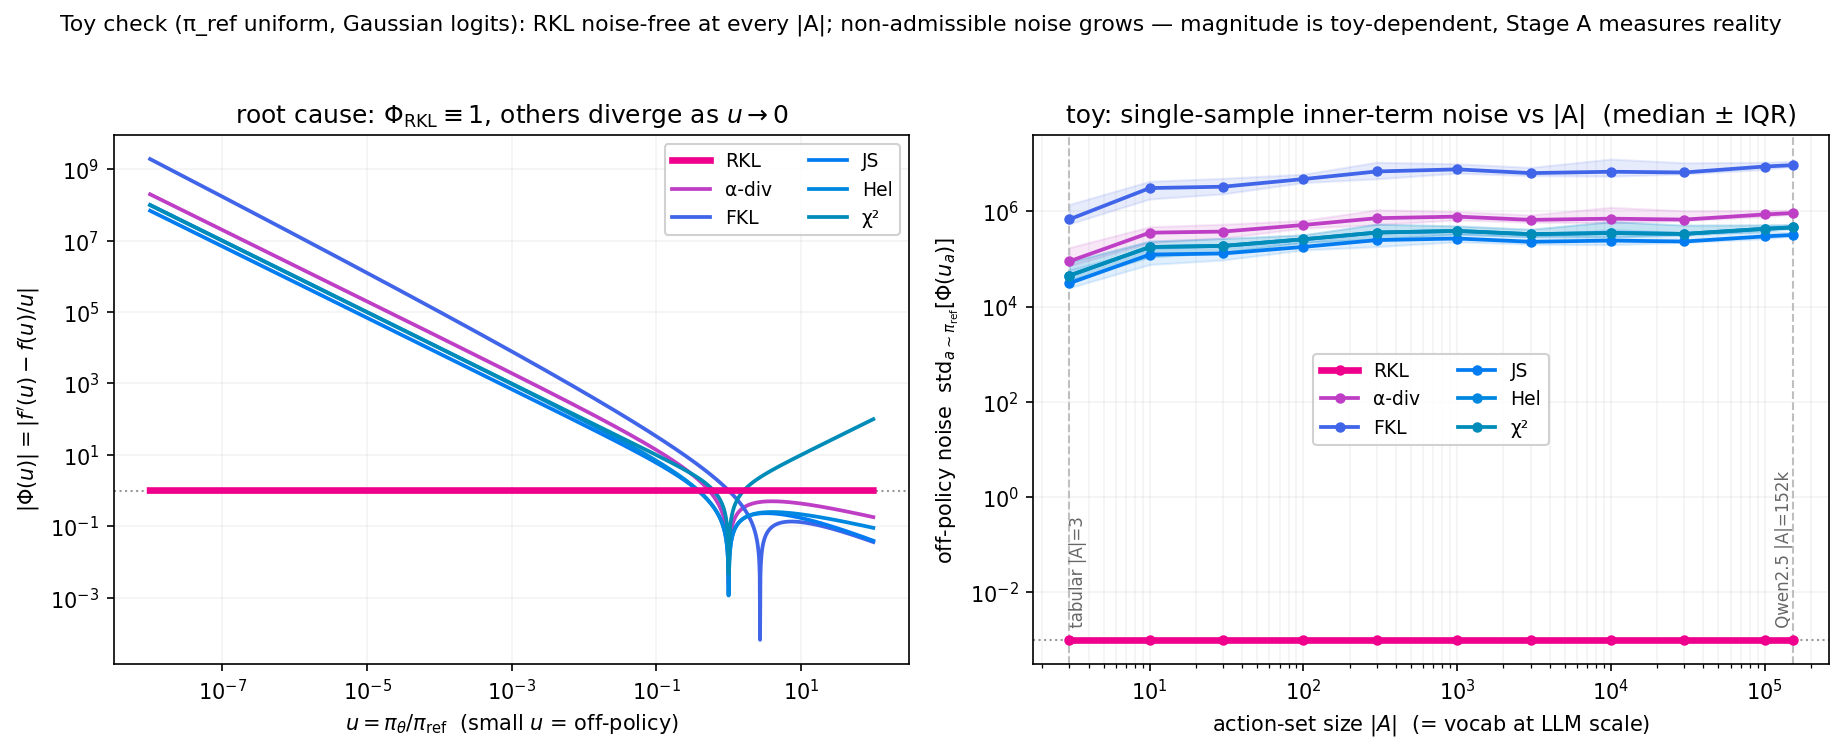
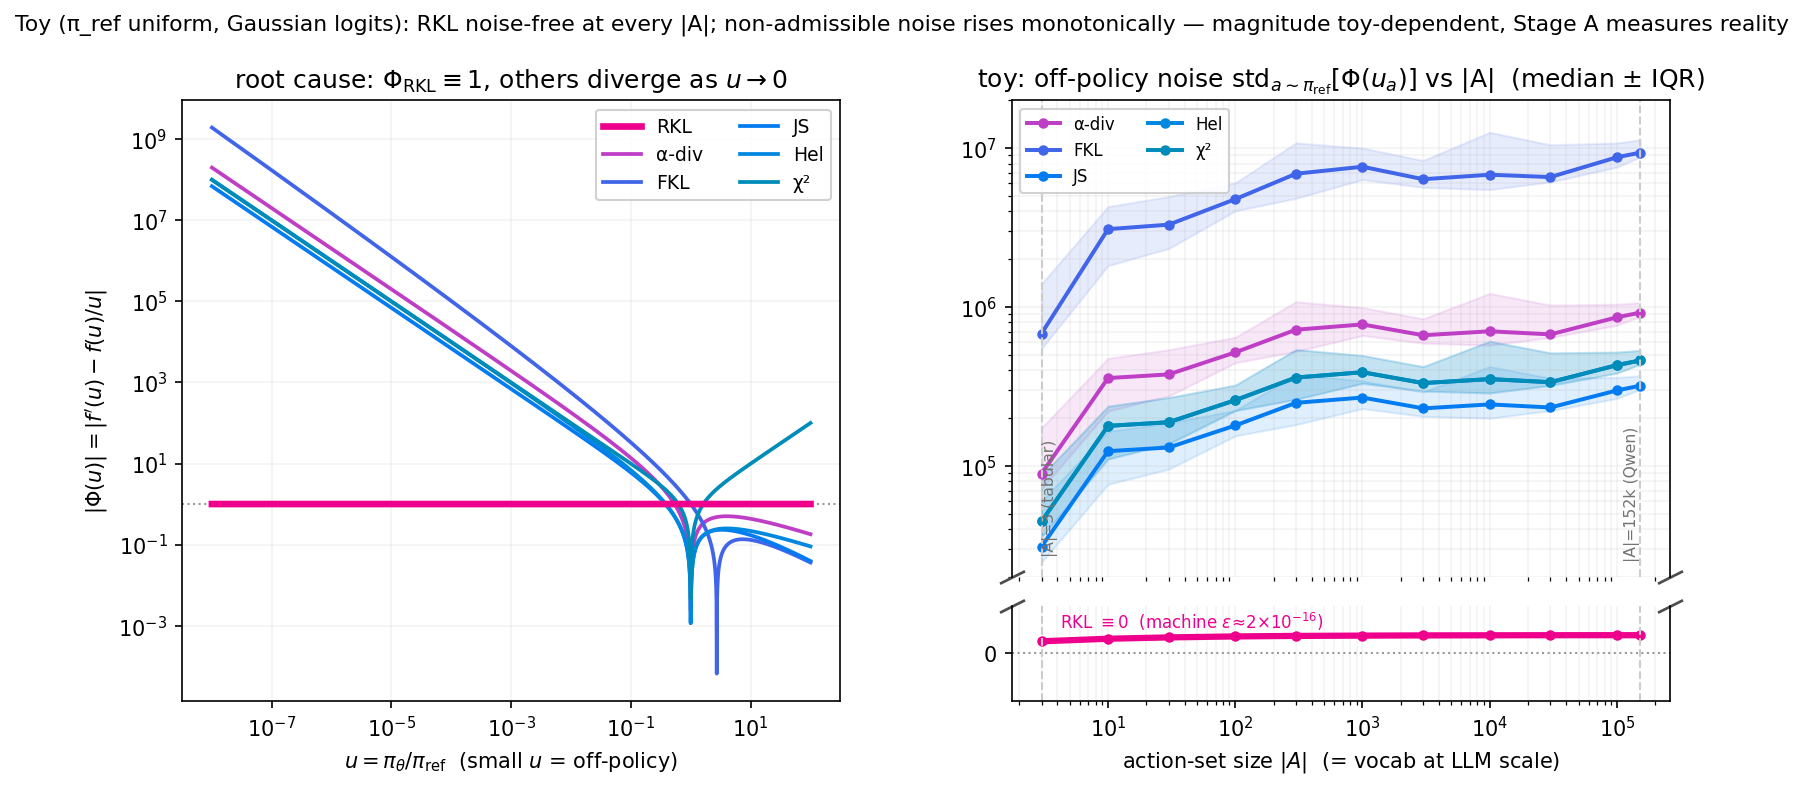
fig_toy_ablation: broken y-axis on the |A| panel
RKL sat at the floor while others clustered near the top, wasting the middle. Split the right panel:
bottom shows RKL at the 0 tick (labeled machine-eps), top zooms to [2e4,2e7] so the monotone rise of
the non-admissible divergences is visible, with diagonal break marks between.

diff --git a/python/fig_toy_ablation.py b/python/fig_toy_ablation.py
@@ -50,7 +50,12 @@ def offpolicy_phi_std(reg_key: str, na: int, seed: int) -> float:
 
 def main():
     os.makedirs(FIGDIR, exist_ok=True)
-    fig, (axL, axR) = plt.subplots(1, 2, figsize=(12.4, 4.9))
+    fig = plt.figure(figsize=(12.8, 5.2))
+    gs = fig.add_gridspec(1, 2, width_ratios=[1, 1], wspace=0.26)
+    axL = fig.add_subplot(gs[0])
+    gsR = gs[1].subgridspec(2, 1, height_ratios=[5, 1], hspace=0.10)   # broken y-axis
+    axRt = fig.add_subplot(gsR[0])                 # top: non-admissible band (zoomed)
+    axRb = fig.add_subplot(gsR[1], sharex=axRt)    # bottom: RKL ≈ 0
 
     # ---- Left: Φ(u) vs u (the root cause; exact, not toy) ----
     u = np.logspace(-8, 2, 2000)
@@ -66,33 +71,49 @@ def main():
     axL.legend(ncol=2, fontsize=9, framealpha=0.9)
     axL.grid(True, which="both", alpha=0.15)
 
-    # ---- Right: off-policy inner-term noise vs |A| ----
+    # ---- Right (broken y-axis): non-admissible band on top, RKL ≈ 0 on bottom ----
+    data = {}
     for k in KEYS:
         med, lo, hi = [], [], []
         for na in A_GRID:
             vals = np.array([offpolicy_phi_std(k, na, seed=s) for s in range(N_SEEDS)])
             med.append(np.median(vals)); lo.append(np.quantile(vals, .25)); hi.append(np.quantile(vals, .75))
-        med = np.maximum(np.array(med), FLOOR)
-        lo = np.maximum(np.array(lo), FLOOR); hi = np.maximum(np.array(hi), FLOOR)
-        axR.plot(A_GRID, med, color=COLORS[k], lw=3.2 if k == "kl" else 1.8,
-                 marker="o", ms=4, zorder=8 if k == "kl" else 3, label=SHORT[k])
-        if k != "kl":
-            axR.fill_between(A_GRID, lo, hi, color=COLORS[k], alpha=0.12, zorder=2)
-    axR.axhline(FLOOR, color="0.6", ls=":", lw=1)
-    axR.axvline(3, color="0.75", ls="--", lw=1)
-    axR.text(3, FLOOR * 1.4, " tabular |A|=3", fontsize=8, color="0.4", rotation=90, va="bottom")
-    axR.axvline(152000, color="0.75", ls="--", lw=1)
-    axR.text(152000, FLOOR * 1.4, " Qwen2.5 |A|=152k", fontsize=8, color="0.4", rotation=90, va="bottom", ha="right")
-    axR.set_xscale("log"); axR.set_yscale("log")
-    axR.set_xlabel(r"action-set size $|A|$  (= vocab at LLM scale)")
-    axR.set_ylabel(r"off-policy noise  $\mathrm{std}_{a\sim\pi_{\mathrm{ref}}}[\Phi(u_a)]$")
-    axR.set_title("toy: single-sample inner-term noise vs |A|  (median ± IQR)")
-    axR.legend(ncol=2, fontsize=9, framealpha=0.9)
-    axR.grid(True, which="both", alpha=0.15)
+        data[k] = (np.array(med), np.array(lo), np.array(hi))
+    for k in KEYS:                                  # top: everyone except RKL, zoomed to their band
+        if k == "kl":
+            continue
+        med, lo, hi = data[k]
+        axRt.plot(A_GRID, med, color=COLORS[k], lw=1.9, marker="o", ms=4, label=SHORT[k])
+        axRt.fill_between(A_GRID, lo, hi, color=COLORS[k], alpha=0.12)
+    axRt.set_xscale("log"); axRt.set_yscale("log"); axRt.set_ylim(2e4, 2e7)
+    axRt.grid(True, which="both", alpha=0.15)
+    axRt.legend(ncol=2, fontsize=8, framealpha=0.9, loc="upper left")
+    axRt.set_title(r"toy: off-policy noise $\mathrm{std}_{a\sim\pi_{\mathrm{ref}}}[\Phi(u_a)]$ vs |A|  (median ± IQR)")
+    axRt.text(3, 2.5e4, " |A|=3 (tabular)", fontsize=7.5, color="0.45", rotation=90, va="bottom")
+    axRt.text(152000, 2.5e4, "|A|=152k (Qwen) ", fontsize=7.5, color="0.45", rotation=90, va="bottom", ha="right")
 
-    fig.suptitle("Toy check (π_ref uniform, Gaussian logits): RKL noise-free at every |A|; "
-                 "non-admissible noise grows — magnitude is toy-dependent, Stage A measures reality",
-                 fontsize=10.5, y=1.02)
+    axRb.plot(A_GRID, data["kl"][0], color=COLORS["kl"], lw=3.0, marker="o", ms=4)   # bottom: RKL ≈ 0
+    axRb.axhline(0.0, color="0.6", ls=":", lw=1)
+    axRb.set_xscale("log"); axRb.set_ylim(-6e-16, 6e-16); axRb.set_yticks([0])
+    axRb.text(A_GRID[0] * 1.4, 2.6e-16, r"RKL $\equiv 0$  (machine $\varepsilon\!\approx\!2{\times}10^{-16}$)",
+              fontsize=8, color=COLORS["kl"], va="bottom")
+    for xa in (3, 152000):
+        axRt.axvline(xa, color="0.8", ls="--", lw=1); axRb.axvline(xa, color="0.8", ls="--", lw=1)
+    axRb.grid(True, which="both", axis="x", alpha=0.15)
+    axRb.set_xlabel(r"action-set size $|A|$  (= vocab at LLM scale)")
+
+    # broken-axis diagonal cut marks between the two right panels
+    axRt.spines["bottom"].set_visible(False); axRt.tick_params(bottom=False, labelbottom=False)
+    axRb.spines["top"].set_visible(False)
+    dm = 0.5
+    kw = dict(marker=[(-1, -dm), (1, dm)], markersize=12, linestyle="none",
+              color="0.3", mec="0.3", mew=1.3, clip_on=False)
+    axRt.plot([0, 1], [0, 0], transform=axRt.transAxes, **kw)
+    axRb.plot([0, 1], [1, 1], transform=axRb.transAxes, **kw)
+
+    fig.suptitle("Toy (π_ref uniform, Gaussian logits): RKL noise-free at every |A|; non-admissible "
+                 "noise rises monotonically — magnitude toy-dependent, Stage A measures reality",
+                 fontsize=10.5, y=0.99)
     fig.tight_layout()
     out = os.path.join(FIGDIR, "toy_Asize_ablation.png")
     fig.savefig(out, dpi=150, bbox_inches="tight")
